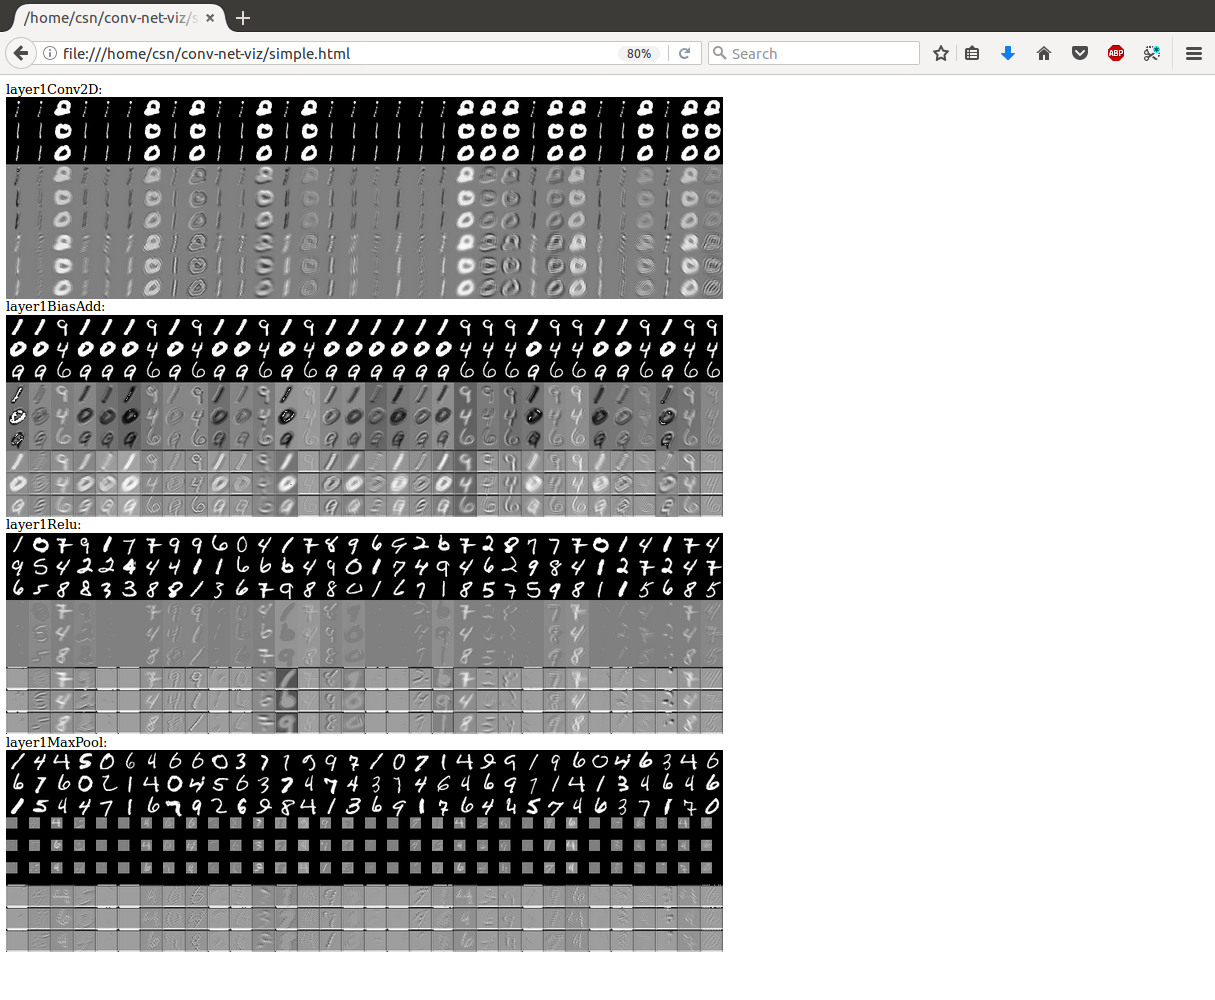
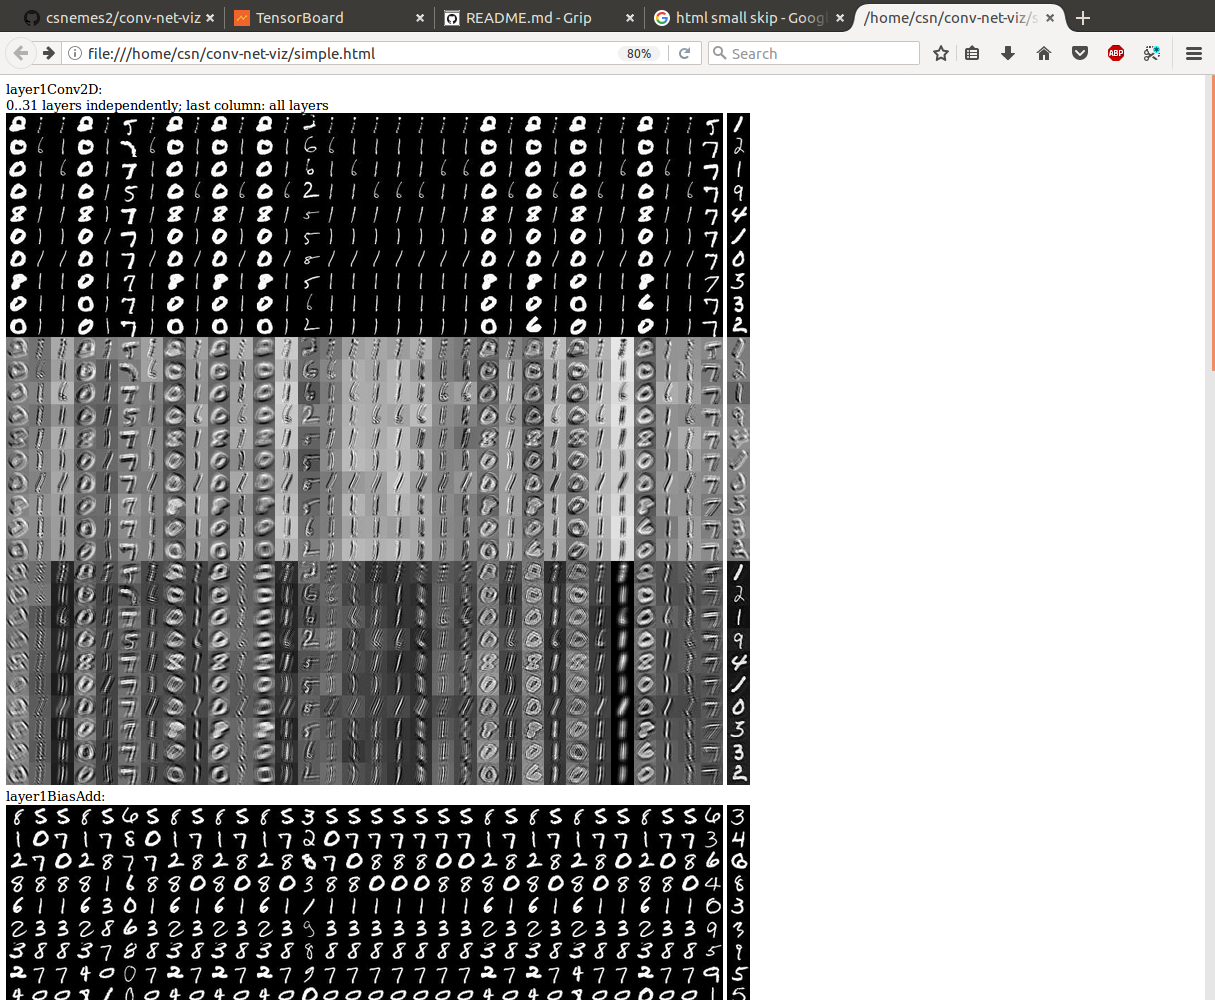
correct how the np matrices are converted to images, add reconstruction from all layers

diff --git a/simple.html b/simple.html
@@ -5,26 +5,30 @@ img { display : inline-block;}
 </style>
 <script type="text/javascript">
 var i=0;
-document.write("layer1Conv2D:</br>");
+document.write("layer1Conv2D:</br>0..31 layers independently; last column: all layers</br>");
 for (i=0;i<32;i++)
 {
-document.write("<img src=\"./simple_results/layer1Conv2D0/" + i + ".bmp\"/>");
+document.write("<img src=\"./simple_results/layer1Conv2D0/" + i + ".jpg\"/>");
 }
+document.write(" <img src=\"./simple_results/layer1Conv2D0/None.jpg\"/>");
 document.write("</br>layer1BiasAdd:</br>");
 for (i=0;i<32;i++)
 {
-document.write("<img src=\"./simple_results/layer1BiasAdd0/" + i + ".bmp\"/>");
+document.write("<img src=\"./simple_results/layer1BiasAdd0/" + i + ".jpg\"/>");
 }
+document.write(" <img src=\"./simple_results/layer1BiasAdd0/None.jpg\"/>");
 document.write("</br>layer1Relu:</br>");
 for (i=0;i<32;i++)
 {
-document.write("<img src=\"./simple_results/layer1Relu0/" + i + ".bmp\"/>");
+document.write("<img src=\"./simple_results/layer1Relu0/" + i + ".jpg\"/>");
 }
+document.write(" <img src=\"./simple_results/layer1Relu0/None.jpg\"/>");
 document.write("</br>layer1MaxPool:</br>");
 for (i=0;i<32;i++)
 {
-document.write("<img src=\"./simple_results/layer1MaxPool0/" + i + ".bmp\"/>");
+document.write("<img src=\"./simple_results/layer1Pool2DMaxPool0/" + i + ".jpg\"/>");
 }
+document.write(" <img src=\"./simple_results/layer1Pool2DMaxPool0/None.jpg\"/>");
 </script>
 </body>
 </html>

diff --git a/simple.py b/simple.py
@@ -20,7 +20,7 @@ mnist = input_data.read_data_sets("/tmp/data/", one_hot=True)
 
 # Training Parameters
 learning_rate = 0.001
-num_steps = 100
+num_steps = 10000
 batch_size = 128
 display_step = 10
 
@@ -37,7 +37,7 @@ keep_prob = tf.placeholder(tf.float32)  # dropout (keep probability)
 remembered_tensors_list = []
 
 
-def remember_tensor(tensor,mask=None):
+def remember_tensor(tensor, mask=None):
     global remembered_tensors_list
     operation = tensor.op
     print(tensor.name + ' remembered')
@@ -61,7 +61,7 @@ def reverse_operation(tensor, operation, prev_tensor, mask):
                                       padding=orig_padding)
     elif operation.type == 'MaxPool':
         orig_strides = operation.get_attr('strides')
-        return unpool(prev_tensor,mask,orig_strides)
+        return unpool(prev_tensor, mask, orig_strides)
         pass
     else:
         exit('ERROR: You did not specify a reverse operation for type= ' + operation.type)
@@ -83,6 +83,7 @@ def conv2d(x0, W, b, strides=1):
     global batch_size
 
     x1 = tf.nn.conv2d(x0, W, strides=[1, strides, strides, 1], padding='SAME')
+
     remember_tensor(x1)
 
     x2 = tf.nn.bias_add(x1, b)
@@ -109,11 +110,12 @@ def maxpool2d(x, k=2):
             strides=[1, k, k, 1],
             padding='SAME')
         mask = tf.stop_gradient(mask)
-        net =tf.nn.max_pool(x, ksize=[1, k, k, 1], strides=[1, k, k, 1],
-                          padding='SAME')
-        remember_tensor(net,mask=mask)
+        net = tf.nn.max_pool(x, ksize=[1, k, k, 1], strides=[1, k, k, 1],
+                             padding='SAME')
+        remember_tensor(net, mask=mask)
 
     return net
+
 
 def unpool(net, mask, strides):
     global batch_size
@@ -121,13 +123,13 @@ def unpool(net, mask, strides):
       https: // github.com / yselivonchyk / Tensorflow_WhatWhereAutoencoder / blob / master / WhatWhereAutoencoder.py
     """
     with tf.name_scope('UnPool2D'):
-        ksize=strides
+        ksize = strides
         input_shape = net.get_shape().as_list()
-        input_shape[0]=batch_size
+        input_shape[0] = batch_size
         output_shape = (input_shape[0], input_shape[1] * ksize[1], input_shape[2] * ksize[2], input_shape[3])
-        print('ksize='+str(ksize))
-        print('input_shape='+str(input_shape))
-        print('output_shape='+str(output_shape))
+        print('ksize=' + str(ksize))
+        print('input_shape=' + str(input_shape))
+        print('output_shape=' + str(output_shape))
         # calculation indices for batch, height, width and feature maps
         one_like_mask = tf.ones_like(mask)
         batch_range = tf.reshape(tf.range(output_shape[0], dtype=tf.int64), shape=[input_shape[0], 1, 1, 1])
@@ -161,7 +163,6 @@ def conv_net(x, weights, biases, dropout):
         # Max Pooling (down-sampling)
         conv1 = maxpool2d(conv1, k=2)
 
-
     with tf.name_scope('layer2'):
         # Convolution Layer
         conv2 = conv2d(conv1, weights['wc2'], biases['bc2'])
@@ -189,7 +190,7 @@ with tf.name_scope('variables'):
     # Store layers weight & bias
     weights = {
         # 5x5 conv, 1 input, 32 outputs
-        'wc1': tf.Variable(tf.random_normal([5, 5, 1, 32])),
+        'wc1': tf.Variable(tf.random_normal([7, 7, 1, 32])),
         # 5x5 conv, 32 inputs, 64 outputs
         'wc2': tf.Variable(tf.random_normal([5, 5, 32, 64])),
         # fully connected, 7*7*64 inputs, 1024 outputs
@@ -263,7 +264,9 @@ def viz(sess, tensor_name):
             start_clean_dir(target)
             for channel_index in range(0, int(tensor.shape[3])):
                 channel_top_indices = top_indices[channel_index, :]
+                #channel_top_indices = list(xrange(128))
                 viz_channel(sess, target, tensor, reverse_tensor, channel_index, channel_top_indices)
+            viz_channel(sess, target, tensor, reverse_tensor, None, list(xrange(128)))
     if not success:
         print('Error')
         print('Not found=' + tensor_name)
@@ -273,45 +276,88 @@ def viz(sess, tensor_name):
             print('\t' + tensor.name)
 
 
-def adjust_tensor_to_input(tensor_data, layer_index, image_shape):
-    #print(image_shape)
+def adjust_tensor_to_input(tensor_data, ch_index, image_shape):
+    # print(image_shape)
     ts = tensor_data.shape
-    #print(ts)
+    # print(ts)
     adjusted_tensor_data = np.zeros(image_shape, dtype=np.float32)
-    adjusted_tensor_data[:,:ts[1],:ts[2],0] = tensor_data[:,:,:,layer_index]
+    if ch_index is None:
+        #adjusted_tensor_data[:, :ts[1], :ts[2], 0] = np.sum(tensor_data[:, :, :, :], axis=3)
+        adjusted_tensor_data[:, :ts[1], :ts[2], 0] = tensor_data[:, :, :, 0]
+    else:
+        adjusted_tensor_data[:, :ts[1], :ts[2], 0] = tensor_data[:, :, :, ch_index]
     return adjusted_tensor_data
 
 
-def pimp_image_hist(data):
-    a = np.amax(data)
-    return data / a * 128 + 128
+def image_norm1(data):
+    amin = np.min(data)
+    positive = data + np.abs(amin)
+    amax = np.max(positive)
+    return (positive) / amax*255
+
+def image_norm2(data):
+    amax = np.max(data)
+    return (data) / amax*255
+
+def image_norm3(data):
+    for i in xrange(128):
+        amax = np.max(data[i,:,:,:])
+        data[i,:,:,:] = data[i,:,:,:]/amax*255
+    return data
+
+def image_norm4(data):
+    for i in xrange(128):
+        amin = np.min(data[i,:,:,:])
+        positive = data[i,:,:,:] + np.abs(amin)
+        amax = np.max(positive)
+        data[i,:,:,:] = positive / amax * 255
+
+    return data
 
 
-def viz_channel(sess, tensor_name, tensor, reverse_tensor, layer_index, channel_top_indices):
+def viz_channel(sess, tensor_name, tensor, reverse_tensor, ch_index, channel_top_indices):
+    """
+    Vizualization for one channel  in the tensor
+    :param sess:
+    :param tensor_name:
+    :param tensor:
+    :param reverse_tensor:
+    :param ch_index: channel index, if None, everything is reconstructed
+    :param channel_top_indices:
+    :return:
+    """
     global input_viz
 
     tensor_data = sess.run(tensor, feed_dict={X: mnist.test.images[channel_top_indices]})
-    viz_top = 3
-    print('\tVisualizing channel index' + str(layer_index))
+    viz_top = 10
+    print('\t Layer='+str(tensor))
+    print('\tVisualizing channel index' + str(ch_index))
     print('\t\tTop indices=' + str(channel_top_indices[:viz_top]))
-    print('\t\tnp.max(tensor_data)='+str(np.max(tensor_data)))
-    print('\t\tnp.min(tensor_data)=' + str(np.min(tensor_data)))
+    print('\t\tnp.max(tensor_data)=' + str(np.max(tensor_data[0,:,:,:])))
+    print('\t\tnp.min(tensor_data)=' + str(np.min(tensor_data[0,:,:,:])))
 
     new_tensor_data = np.zeros(tensor_data.shape, dtype=np.float32)
-    new_tensor_data[:, :, :, layer_index] = tensor_data[:, :, :, layer_index]
-    input_viz_to_save = sess.run(input_viz, feed_dict={reverse_tensor: new_tensor_data, X:mnist.test.images[channel_top_indices]})
+    if ch_index is not None:
+        new_tensor_data[:, :, :, ch_index] = tensor_data[:, :, :, ch_index]
+    else:
+        new_tensor_data = tensor_data
+    input_viz_to_save = sess.run(input_viz,
+                                 feed_dict={reverse_tensor: new_tensor_data, X: mnist.test.images[channel_top_indices]})
 
-    # display between 0 and 256
-    input_viz_to_save = pimp_image_hist(input_viz_to_save)
-    tensor_data = pimp_image_hist(tensor_data)
+    print('\t\tnp.max(input_viz_to_save)=' + str(np.max(input_viz_to_save[0,:,:,0])))
+    print('\t\tnp.min(input_viz_to_save)=' + str(np.min(input_viz_to_save[0,:,:,0])))
 
-    adjusted_tensor_data = adjust_tensor_to_input(tensor_data, layer_index, input_viz_to_save.shape)
+
+    adjusted_tensor_data = adjust_tensor_to_input(tensor_data, ch_index, input_viz_to_save.shape)
+
+    adjusted_tensor_data = image_norm4(adjusted_tensor_data)
+    input_viz_to_save = image_norm4(input_viz_to_save)
 
     save_viz_channel(tensor_name,
-                     layer_index,
+                     ch_index,
                      input_viz_to_save[:viz_top, :, :, :].reshape([viz_top * 28, 28]),
                      mnist.test.images[channel_top_indices[:viz_top]].reshape(viz_top * 28, 28) * 255,
-                     adjusted_tensor_data[:viz_top,:,:,:].reshape([viz_top * 28, 28]))
+                     adjusted_tensor_data[:viz_top, :, :, :].reshape([viz_top * 28, 28]))
 
 
 def start_clean_dir(target):
@@ -323,36 +369,43 @@ def start_clean_dir(target):
 
 def save_viz_channel(target_dir, lidx, viz_pics, orig_pics, layer_pics):
     pic = np.concatenate((orig_pics, layer_pics, viz_pics), axis=0)
-    save_pic(target_dir + '/' + str(lidx)+'.bmp', pic)
+    save_pic(target_dir + '/' + str(lidx), pic)
 
 
 with tf.Session() as sess:
     global input_viz
     sess.run(init)
+
     summary_op = tf.summary.merge_all()
     summary_writer = tf.summary.FileWriter("simple_log", sess.graph)
+    saver = tf.train.Saver()
 
-    for step in range(1, num_steps + 1):
-        batch_x, batch_y = mnist.train.next_batch(batch_size)
-        # Run optimization op (backprop)
-        sess.run(train_op, feed_dict={X: batch_x, Y: batch_y, keep_prob: 0.8})
-        if step % display_step == 0 or step == 1:
-            # Calculate batch loss and accuracy
-            loss, acc = sess.run([loss_op, accuracy], feed_dict={X: batch_x,
-                                                                 Y: batch_y,
-                                                                 keep_prob: 1.0})
-            print("Step " + str(step) + ", Minibatch Loss= " + \
-                  "{:.4f}".format(loss) + ", Training Accuracy= " + \
-                  "{:.3f}".format(acc))
+    ckpt_file = './simple.ckpt'
+    if os.path.isfile(ckpt_file + '.index'):
+        saver.restore(sess, ckpt_file)
+    else:
+        for step in range(1, num_steps + 1):
+            batch_x, batch_y = mnist.train.next_batch(batch_size)
+            # Run optimization op (backprop)
+            sess.run(train_op, feed_dict={X: batch_x, Y: batch_y, keep_prob: 0.8})
+            if step % display_step == 0 or step == 1:
+                # Calculate batch loss and accuracy
+                loss, acc = sess.run([loss_op, accuracy], feed_dict={X: batch_x,
+                                                                     Y: batch_y,
+                                                                     keep_prob: 1.0})
+                print("Step " + str(step) + ", Minibatch Loss= " + \
+                      "{:.4f}".format(loss) + ", Training Accuracy= " + \
+                      "{:.3f}".format(acc))
 
-    print("Optimization Finished!")
+        print("Optimization Finished!")
 
-    print(mnist.train.images.shape)
-    print(mnist.test.images.shape)
-    print(mnist.validation.images.shape)
+        print(mnist.train.images.shape)
+        print(mnist.test.images.shape)
+        print(mnist.validation.images.shape)
 
-    print(np.min(mnist.train.images[0]))
-    print(np.max(mnist.train.images[0]))
+        print(np.min(mnist.train.images[0]))
+        print(np.max(mnist.train.images[0]))
+        saver.save(sess, ckpt_file)
 
     # Calculate accuracy for 256 MNIST test images
     print("Testing Accuracy:", \
@@ -363,3 +416,4 @@ with tf.Session() as sess:
     viz(sess, 'layer1/BiasAdd:0')
     viz(sess, 'layer1/Relu:0')
     viz(sess, 'layer1/Pool2D/MaxPool:0')
+

diff --git a/helper.py b/helper.py
@@ -23,8 +23,8 @@ def save_pic_old(img_path,rgb):
     imsave(img_path, rgb)
 
 def save_pic(img_path,rgb):
-    img = Image.fromarray(np.uint8(rgb))
-    img.save(img_path,'bmp')
+    img = Image.fromarray(rgb)
+    img.convert('RGB').save(img_path+'.jpg')
 
 def pop_file(img_path):
     I = np.asarray(Image.open(img_path))
